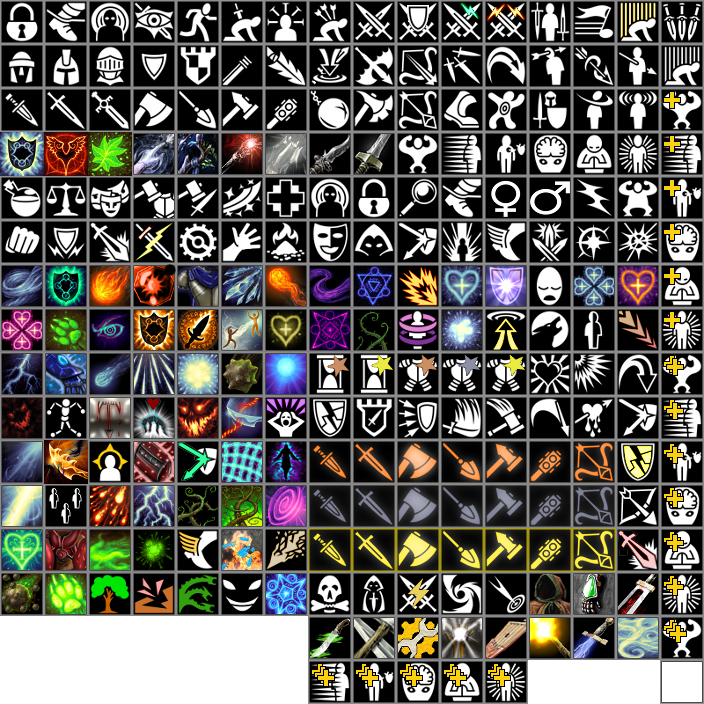
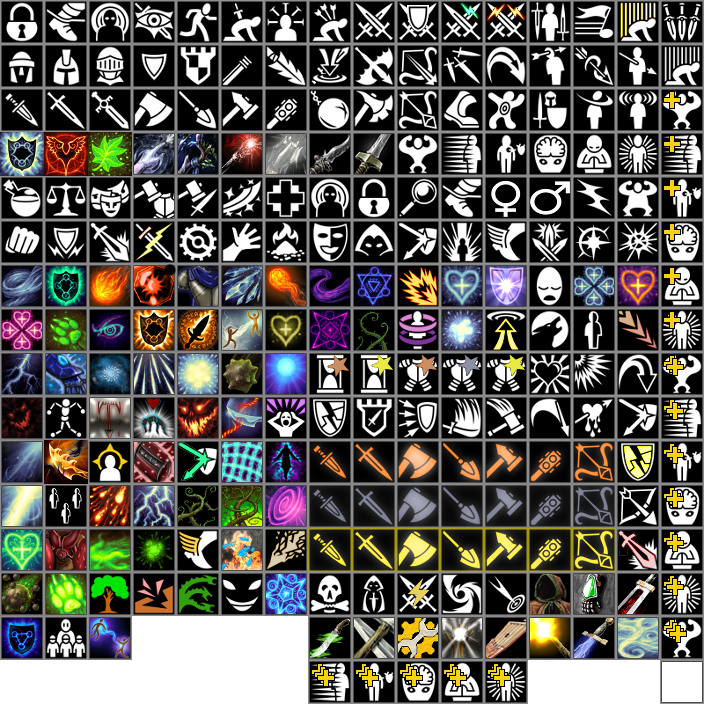
added more paladin abilities

Changed region(s): [[0.0, 0.875, 0.1875, 0.9375], [0.125, 0.5, 0.1875, 0.5625]]

diff --git a/trunk/core/scripts/effects/leadership.js b/trunk/core/scripts/effects/leadership.js
@@ -1,12 +1,15 @@
 function onTargetEnter(game, target, aura) {
-	createEffect(aura, target);
+	createEffect(aura, target, false);
 }
 
-function createEffect(aura, target) {
+function createEffect(aura, target, roundElapsed) {
 	var slot = aura.getSlot();
 	var parent = slot.getParent();
 	
 	var chaBonus = (parent.stats().getCha() - 10) * 2;
+	if (parent.getAbilities().has("PersonalMagnetism"))
+		chaBonus = chaBonus * 2;
+	
 	var lvlBonus = parent.getRoles().getLevel("Paladin");
 	
 	var amount = 10 + chaBonus + lvlBonus;
@@ -15,9 +18,20 @@ function createEffect(aura, target) {
 	targetEffect.setTitle(slot.getAbility().getName());
 	aura.addChildEffect(targetEffect);
 	
-	targetEffect.getBonuses().addBonus('MentalResistance', 'Morale', amount);
-	targetEffect.getBonuses().addBonus('PhysicalResistance', 'Morale', amount);
-	targetEffect.getBonuses().addBonus('ReflexResistance', 'Morale', amount);
+	if (parent.getFaction().isFriendly(target)) {
+		targetEffect.getBonuses().addBonus('Attack', amount);
+		targetEffect.getBonuses().addBonus('SpellFailure', amount);
+		targetEffect.getBonuses().addBonus('ConcealmentIgnoring', amount);
+		
+		if (parent.getAbilities().has("PositiveEnergy")) {
+			targetEffect.getBonuses().addAttackBonusVsRacialType("Undead", amount);
+			targetEffect.getBonuses().addDamageBonusVsRacialType("Undead", 2 * amount);
+			
+			if (roundElapsed) {
+				target.healDamage(chaBonus);
+			}
+		}
+	}
 	
 	targetEffect.setDuration(1);
 	
@@ -40,6 +54,6 @@ function onRoundElapsed(game, aura) {
 		target.removeEffect(targetEffect);
 		aura.removeChildEffect(targetEffect);
 		
-		createEffect(aura, target);
+		createEffect(aura, target, true);
 	}
 }

diff --git a/trunk/core/scripts/abilities/aid.js b/trunk/core/scripts/abilities/aid.js
@@ -1,0 +1,51 @@
+function onActivate(game, slot) {
+	var parent = slot.getParent();
+
+	var creatures = game.ai.getTouchableCreatures(slot.getParent(), "Friendly");
+	for (var i = 0; i < creatures.size(); i++) {
+		if (creatures.get(i) == parent) {
+			creatures.remove(i);
+			i--;
+		}
+	}
+	
+	var targeter = game.createListTargeter(slot);
+	targeter.addAllowedCreatures(creatures);
+	targeter.activate();
+}
+
+function onTargetSelect(game, targeter) {
+	var ability = targeter.getSlot().getAbility();
+	var parent = targeter.getParent();
+	
+	var duration = 2;
+	
+	// fire the ability
+	targeter.getSlot().setActiveRoundsLeft(duration);
+	targeter.getSlot().activate();
+	
+	var target = targeter.getSelectedCreature();
+
+	var chaBonus = (parent.stats().getCha() - 10) * 4;
+	if (parent.getAbilities().has("PersonalMagnetism"))
+		chaBonus = chaBonus * 2;
+	
+	var lvlBonus = parent.getRoles().getLevel("Paladin") * 4;
+	
+	var amount = chaBonus + lvlBonus;
+	
+	var effect = targeter.getSlot().createEffect();
+	effect.setDuration(duration);
+	effect.setTitle(ability.getName());
+	effect.getBonuses().add('UndispellableImmobilized');
+	effect.getBonuses().addBonus('ArmorClass', 'Deflection', amount);
+	effect.getBonuses().addBonus('MeleeSpellFailure', 'Morale', amount);
+	effect.getBonuses().addBonus('Attack', 'Morale', amount);
+	target.applyEffect(effect);
+	
+	var parentEffect = targeter.getSlot().createEffect();
+	parentEffect.setDuration(duration);
+	parentEffect.setTitle(ability.getName());
+	parentEffect.getBonuses().add('UndispellableImmobilized');
+	parent.applyEffect(parentEffect);
+}

diff --git a/trunk/core/scripts/abilities/leadership.js b/trunk/core/scripts/abilities/leadership.js
@@ -1,5 +1,5 @@
 function onActivate(game, slot) {
-	var effect = slot.createAura("effects/holyAura");
+	var effect = slot.createAura("effects/leadership");
 	effect.setAuraMaxRadius(4);
 	effect.setTitle(slot.getAbility().getName());
 	

diff --git a/trunk/src/net/sf/hale/mainmenu/UniqueCharacter.java b/trunk/src/net/sf/hale/mainmenu/UniqueCharacter.java
@@ -24,6 +24,7 @@ import java.util.ArrayList;
 import java.util.Iterator;
 import java.util.List;
 
+import net.sf.hale.Game;
 import net.sf.hale.entity.Creature;
 import net.sf.hale.resource.ResourceType;
 import net.sf.hale.rules.Race;
@@ -64,6 +65,8 @@ public class UniqueCharacter implements Iterable<Creature> {
 		this.name = creature.getName();
 		this.gender = creature.getGender();
 		this.race = creature.getRace();
+		
+		setMinMaxLevel();
 	}
 	
 	/**
@@ -76,15 +79,14 @@ public class UniqueCharacter implements Iterable<Creature> {
 	}
 	
 	/**
-	 * Sets the minimum and maximum level for valid creatures in this unique character.
+	 * Sets the minimum and maximum level for valid creatures in this unique character based on the current
+	 * campaign rules
 	 * Note that this constraint does not prevent creatures from being added.
-	 * @param min the minimum level constraint
-	 * @param max the maximum level constraint
 	 */
 	
-	public void setMinMaxLevel(int min, int max) {
-		this.minLevel = min;
-		this.maxLevel = max;
+	public void setMinMaxLevel() {
+		this.minLevel = Game.curCampaign.getMinStartingLevel();
+		this.maxLevel = Game.curCampaign.getMaxStartingLevel();
 	}
 	
 	/**
@@ -98,6 +100,15 @@ public class UniqueCharacter implements Iterable<Creature> {
 		int level = creature.getRoles().getTotalLevel();
 		
 		return level >= this.minLevel && level <= this.maxLevel;
+	}
+	
+	/**
+	 * Returns the first creature in this uniqueCharacter
+	 * @return the first creature in this uniqueCharacter
+	 */
+	
+	public Creature getFirstCreature() {
+		return creatures.get(0);
 	}
 	
 	/**

diff --git a/trunk/src/net/sf/hale/ability/Spell.java b/trunk/src/net/sf/hale/ability/Spell.java
@@ -193,10 +193,6 @@ public class Spell extends Ability {
 			// add the spell failure from armor
 			int armorFailure = parent.stats().get(Stat.ArmorPenalty) - parent.stats().get(Bonus.Type.ArmorSpellFailure);
 			failure += Math.max(0, armorFailure);
-			
-			if (parent.isImmobilized()) {
-				return 100;
-			}
 		}
 		
 		// determine the failure due to threatening creatures
@@ -252,11 +248,6 @@ public class Spell extends Ability {
 			// add the spell failure from armor
 			int armorFailure = parent.stats().get(Stat.ArmorPenalty) - parent.stats().get(Bonus.Type.ArmorSpellFailure);
 			failure += Math.max(0, armorFailure);
-			
-			if (parent.isImmobilized()) {
-				Game.mainViewer.addMessage("red", parent.getName() + " failed to cast " + getName() + " due to immobilization.");
-				return false;
-			}
 		}
 		
 		// determine the failure due to threatening creatures

diff --git a/trunk/src/net/sf/hale/bonus/Bonus.java b/trunk/src/net/sf/hale/bonus/Bonus.java
@@ -69,7 +69,7 @@ public class Bonus implements Saveable {
 		SpellDamage("Spell Damage"), SpellHealing("Spell Healing"), SpellDuration("Spell Duration"),
 		SpellResistance("Spell Resistance"), ArmorSpellFailure("Spell Failure due to Armor"),
 		VerbalSpellFailure("Verbal Spell Failure"),
-		SpellFailure("Spell Failure"), MeleeSpellFailure("Spell Failure due to Threatening Creatures"),
+		SpellFailure("Spell Success"), MeleeSpellFailure("Spell Success due to Threatening Creatures"),
 		SpellCooldown("Spell Cooldown"),
 		Attack, Damage, AttackCost("Attack Cost"), ArmorClass("Armor Class"), ArmorPenalty("Armor Penalty"),
 		ShieldAttack("Attack while using a Shield"),

diff --git a/trunk/src/net/sf/hale/mainmenu/CharacterSelector.java b/trunk/src/net/sf/hale/mainmenu/CharacterSelector.java
@@ -91,7 +91,7 @@ public class CharacterSelector extends Widget {
 		
 		this.character = character;
 		this.creature = character.getBestCreature();
-		
+
 		characterMeetsLevelRequirements = creature != null;
 		// use the first creature if none meet the requirements
 		if (creature == null) {
@@ -163,7 +163,7 @@ public class CharacterSelector extends Widget {
 			if (deleteButton != null) removeChild(deleteButton);
 			
 			if (character.size() <= 1) {
-				deleteButton = new DeleteButton(character.getBestCreature(), null);
+				deleteButton = new DeleteButton(character.getFirstCreature(), null);
 				add(deleteButton);
 			}
 		}

diff --git a/trunk/src/net/sf/hale/mainmenu/PartyFormationWindow.java b/trunk/src/net/sf/hale/mainmenu/PartyFormationWindow.java
@@ -244,7 +244,6 @@ public class PartyFormationWindow extends Widget {
 			// if the creature didn't match any of the existing ones, create a new one
 			if (!creatureAdded) {
 				UniqueCharacter uc = new UniqueCharacter(creature);
-				uc.setMinMaxLevel(Game.curCampaign.getMinStartingLevel(), Game.curCampaign.getMaxStartingLevel());
 				
 				characters.add(uc);
 			}

diff --git a/trunk/src/net/sf/hale/characterbuilder/AbilitySelectorButton.java b/trunk/src/net/sf/hale/characterbuilder/AbilitySelectorButton.java
@@ -75,6 +75,7 @@ public class AbilitySelectorButton extends Button implements Runnable {
 	
 	public AbilitySelectorButton(Ability ability, HoverHolder widgetToAddHoverTo) {
 		this.ability = ability;
+		
 		this.sprite = SpriteManager.getSprite(ability.getIcon());
 		
 		this.widgetToAddHoverTo = widgetToAddHoverTo;
